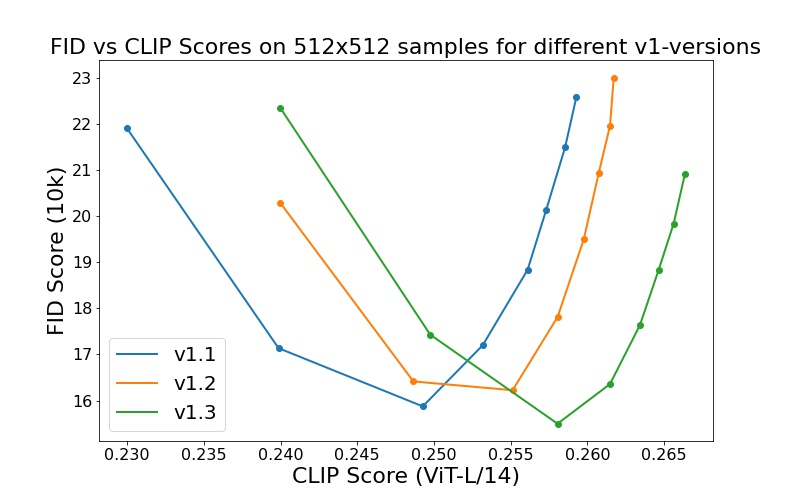
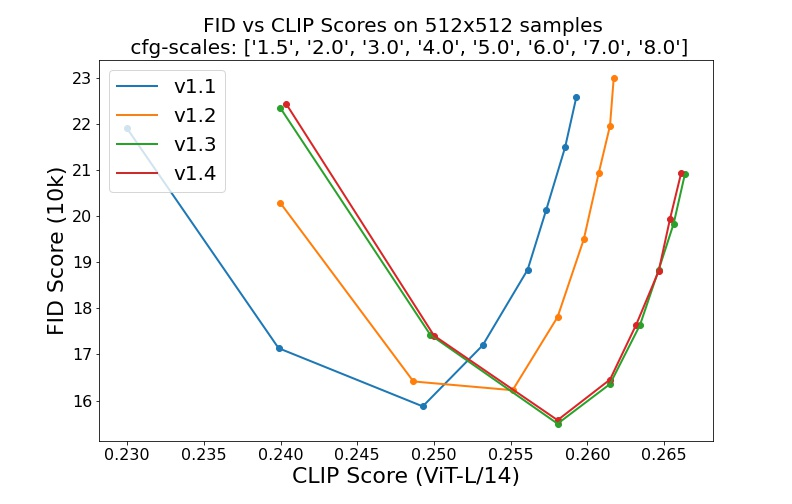
Release under CreativeML Open RAIL M License
Update license, readme, models, model card, requirements and sampling
script.

diff --git a/scripts/txt2img.py b/scripts/txt2img.py
@@ -1,9 +1,11 @@
 import argparse, os, sys, glob
+import cv2
 import torch
 import numpy as np
 from omegaconf import OmegaConf
 from PIL import Image
 from tqdm import tqdm, trange
+from imwatermark import WatermarkEncoder
 from itertools import islice
 from einops import rearrange
 from torchvision.utils import make_grid
@@ -19,10 +21,12 @@ from ldm.models.diffusion.plms import PLMSSampler
 from diffusers.pipelines.stable_diffusion.safety_checker import StableDiffusionSafetyChecker
 from transformers import AutoFeatureExtractor
 
+
 # load safety model
 safety_model_id = "CompVis/stable-diffusion-safety-checker"
 safety_feature_extractor = AutoFeatureExtractor.from_pretrained(safety_model_id)
 safety_checker = StableDiffusionSafetyChecker.from_pretrained(safety_model_id)
+
 
 def chunk(it, size):
     it = iter(it)
@@ -59,6 +63,35 @@ def load_model_from_config(config, ckpt, verbose=False):
     model.cuda()
     model.eval()
     return model
+
+
+def put_watermark(img, wm_encoder=None):
+    if wm_encoder is not None:
+        img = cv2.cvtColor(np.array(img), cv2.COLOR_RGB2BGR)
+        img = wm_encoder.encode(img, 'dwtDct')
+        img = Image.fromarray(img[:, :, ::-1])
+    return img
+
+
+def load_replacement(x):
+    try:
+        hwc = x.shape
+        y = Image.open("assets/rick.jpeg").convert("RGB").resize((hwc[1], hwc[0]))
+        y = (np.array(y)/255.0).astype(x.dtype)
+        assert y.shape == x.shape
+        return y
+    except Exception:
+        return x
+
+
+def check_safety(x_image):
+    safety_checker_input = safety_feature_extractor(numpy_to_pil(x_image), return_tensors="pt")
+    x_checked_image, has_nsfw_concept = safety_checker(images=x_image, clip_input=safety_checker_input.pixel_values)
+    assert x_checked_image.shape[0] == len(has_nsfw_concept)
+    for i in range(len(has_nsfw_concept)):
+        if has_nsfw_concept[i]:
+            x_checked_image[i] = load_replacement(x_checked_image[i])
+    return x_checked_image, has_nsfw_concept
 
 
 def main():
@@ -217,6 +250,11 @@ def main():
     os.makedirs(opt.outdir, exist_ok=True)
     outpath = opt.outdir
 
+    print("Creating invisible watermark encoder (see https://github.com/ShieldMnt/invisible-watermark)...")
+    wm = "StableDiffusionV1"
+    wm_encoder = WatermarkEncoder()
+    wm_encoder.set_watermark('bytes', wm.encode('utf-8'))
+
     batch_size = opt.n_samples
     n_rows = opt.n_rows if opt.n_rows > 0 else batch_size
     if not opt.from_file:
@@ -268,17 +306,16 @@ def main():
                         x_samples_ddim = torch.clamp((x_samples_ddim + 1.0) / 2.0, min=0.0, max=1.0)
                         x_samples_ddim = x_samples_ddim.cpu().permute(0, 2, 3, 1).numpy()
 
-                        x_image = x_samples_ddim
-                        safety_checker_input = safety_feature_extractor(numpy_to_pil(x_image), return_tensors="pt")
-                        x_checked_image, has_nsfw_concept = safety_checker(images=x_image, clip_input=safety_checker_input.pixel_values)
+                        x_checked_image, has_nsfw_concept = check_safety(x_samples_ddim)
 
                         x_checked_image_torch = torch.from_numpy(x_checked_image).permute(0, 3, 1, 2)
 
                         if not opt.skip_save:
                             for x_sample in x_checked_image_torch:
                                 x_sample = 255. * rearrange(x_sample.cpu().numpy(), 'c h w -> h w c')
-                                Image.fromarray(x_sample.astype(np.uint8)).save(
-                                    os.path.join(sample_path, f"{base_count:05}.png"))
+                                img = Image.fromarray(x_sample.astype(np.uint8))
+                                img = put_watermark(img, wm_encoder)
+                                img.save(os.path.join(sample_path, f"{base_count:05}.png"))
                                 base_count += 1
 
                         if not opt.skip_grid:
@@ -292,7 +329,9 @@ def main():
 
                     # to image
                     grid = 255. * rearrange(grid, 'c h w -> h w c').cpu().numpy()
-                    Image.fromarray(grid.astype(np.uint8)).save(os.path.join(outpath, f'grid-{grid_count:04}.png'))
+                    img = Image.fromarray(grid.astype(np.uint8))
+                    img = put_watermark(img, wm_encoder)
+                    img.save(os.path.join(outpath, f'grid-{grid_count:04}.png'))
                     grid_count += 1
 
                 toc = time.time()

diff --git a/scripts/tests/test_watermark.py b/scripts/tests/test_watermark.py
@@ -1,0 +1,18 @@
+import cv2
+import fire
+from imwatermark import WatermarkDecoder
+
+
+def testit(img_path):
+    bgr = cv2.imread(img_path)
+    decoder = WatermarkDecoder('bytes', 136)
+    watermark = decoder.decode(bgr, 'dwtDct')
+    try:
+        dec = watermark.decode('utf-8')
+    except:
+        dec = "null"
+    print(dec)
+
+
+if __name__ == "__main__":
+    fire.Fire(testit)

diff --git a/README.md b/README.md
@@ -7,10 +7,8 @@
 [Dominik Lorenz](https://github.com/qp-qp)\,
 [Patrick Esser](https://github.com/pesser),
 [Björn Ommer](https://hci.iwr.uni-heidelberg.de/Staff/bommer)<br/>
-
-**CVPR '22 Oral**
-
-which is available on [GitHub](https://github.com/CompVis/latent-diffusion). PDF at [arXiv](https://arxiv.org/abs/2112.10752). Please also visit our [Project page](https://ommer-lab.com/research/latent-diffusion-models/).
+_[CVPR '22 Oral](https://openaccess.thecvf.com/content/CVPR2022/html/Rombach_High-Resolution_Image_Synthesis_With_Latent_Diffusion_Models_CVPR_2022_paper.html) |
+[GitHub](https://github.com/CompVis/latent-diffusion) | [arXiv](https://arxiv.org/abs/2112.10752) | [Project page](https://ommer-lab.com/research/latent-diffusion-models/)_
 
 ![txt2img-stable2](assets/stable-samples/txt2img/merged-0006.png)
 [Stable Diffusion](#stable-diffusion-v1) is a latent text-to-image diffusion
@@ -35,7 +33,7 @@ You can also update an existing [latent diffusion](https://github.com/CompVis/la
 
 ```
 conda install pytorch torchvision -c pytorch
-pip install transformers==4.19.2
+pip install transformers==4.19.2 diffusers invisible-watermark
 pip install -e .
 ``` 
 
@@ -49,23 +47,23 @@ then finetuned on 512x512 images.
 
 *Note: Stable Diffusion v1 is a general text-to-image diffusion model and therefore mirrors biases and (mis-)conceptions that are present
 in its training data. 
-Details on the training procedure and data, as well as the intended use of the model can be found in the corresponding [model card](https://huggingface.co/CompVis/stable-diffusion).
-Research into the safe deployment of general text-to-image models is an ongoing effort. To prevent misuse and harm, we currently provide access to the checkpoints only for [academic research purposes upon request](https://stability.ai/academia-access-form).
-**This is an experiment in safe and community-driven publication of a capable and general text-to-image model. We are working on a public release with a more permissive license that also incorporates ethical considerations.***
+Details on the training procedure and data, as well as the intended use of the model can be found in the corresponding [model card](Stable_Diffusion_v1_Model_Card.md).*
 
-[Request access to Stable Diffusion v1 checkpoints for academic research](https://stability.ai/academia-access-form) 
+The weights are available via [the CompVis organization at Hugging Face](https://huggingface.co/CompVis) under [a license which contains specific use-based restrictions to prevent misuse and harm as informed by the model card, but otherwise remains permissive](LICENSE). While commercial use is permitted under the terms of the license, **we do not recommend using the provided weights for services or products without additional safety mechanisms and considerations**, since there are [known limitations and biases](Stable_Diffusion_v1_Model_Card.md#limitations-and-bias) of the weights, and research on safe and ethical deployment of general text-to-image models is an ongoing effort. **The weights are research artifacts and should be treated as such.**
+
+[The CreativeML OpenRAIL M license](LICENSE) is an [Open RAIL M license](https://www.licenses.ai/blog/2022/8/18/naming-convention-of-responsible-ai-licenses), adapted from the work that [BigScience](https://bigscience.huggingface.co/) and [the RAIL Initiative](https://www.licenses.ai/) are jointly carrying in the area of responsible AI licensing. See also [the article about the BLOOM Open RAIL license](https://bigscience.huggingface.co/blog/the-bigscience-rail-license) on which our license is based.
 
 ### Weights
 
-We currently provide three checkpoints, `sd-v1-1.ckpt`, `sd-v1-2.ckpt` and `sd-v1-3.ckpt`,
-which were trained as follows,
+We currently provide the following checkpoints:
 
 - `sd-v1-1.ckpt`: 237k steps at resolution `256x256` on [laion2B-en](https://huggingface.co/datasets/laion/laion2B-en).
   194k steps at resolution `512x512` on [laion-high-resolution](https://huggingface.co/datasets/laion/laion-high-resolution) (170M examples from LAION-5B with resolution `>= 1024x1024`).
 - `sd-v1-2.ckpt`: Resumed from `sd-v1-1.ckpt`.
-  515k steps at resolution `512x512` on "laion-improved-aesthetics" (a subset of laion2B-en,
-filtered to images with an original size `>= 512x512`, estimated aesthetics score `> 5.0`, and an estimated watermark probability `< 0.5`. The watermark estimate is from the LAION-5B metadata, the aesthetics score is estimated using an [improved aesthetics estimator](https://github.com/christophschuhmann/improved-aesthetic-predictor)).
-- `sd-v1-3.ckpt`: Resumed from `sd-v1-2.ckpt`. 195k steps at resolution `512x512` on "laion-improved-aesthetics" and 10\% dropping of the text-conditioning to improve [classifier-free guidance sampling](https://arxiv.org/abs/2207.12598).
+  515k steps at resolution `512x512` on [laion-aesthetics v2 5+](https://laion.ai/blog/laion-aesthetics/) (a subset of laion2B-en with estimated aesthetics score `> 5.0`, and additionally
+filtered to images with an original size `>= 512x512`, and an estimated watermark probability `< 0.5`. The watermark estimate is from the [LAION-5B](https://laion.ai/blog/laion-5b/) metadata, the aesthetics score is estimated using the [LAION-Aesthetics Predictor V2](https://github.com/christophschuhmann/improved-aesthetic-predictor)).
+- `sd-v1-3.ckpt`: Resumed from `sd-v1-2.ckpt`. 195k steps at resolution `512x512` on "laion-aesthetics v2 5+" and 10\% dropping of the text-conditioning to improve [classifier-free guidance sampling](https://arxiv.org/abs/2207.12598).
+- `sd-v1-4.ckpt`: Resumed from `sd-v1-2.ckpt`. 225k steps at resolution `512x512` on "laion-aesthetics v2 5+" and 10\% dropping of the text-conditioning to improve [classifier-free guidance sampling](https://arxiv.org/abs/2207.12598).
 
 Evaluations with different classifier-free guidance scales (1.5, 2.0, 3.0, 4.0,
 5.0, 6.0, 7.0, 8.0) and 50 PLMS sampling
@@ -79,11 +77,20 @@ steps show the relative improvements of the checkpoints:
 ![txt2img-stable2](assets/stable-samples/txt2img/merged-0007.png)
 
 Stable Diffusion is a latent diffusion model conditioned on the (non-pooled) text embeddings of a CLIP ViT-L/14 text encoder.
+We provide a [reference script for sampling](#reference-sampling-script), but
+there also exists a [diffusers integration](#diffusers-integration), which we
+expect to see more active community development.
 
+#### Reference Sampling Script
 
-#### Sampling Script
+We provide a reference sampling script, which incorporates
 
-After [obtaining the weights](#weights), link them
+- a [Safety Checker Module](https://github.com/CompVis/stable-diffusion/pull/36),
+  to reduce the probability of explicit outputs,
+- an [invisible watermarking](https://github.com/ShieldMnt/invisible-watermark)
+  of the outputs, to help viewers [identify the images as machine-generated](scripts/tests/test_watermark.py).
+
+After [obtaining the `stable-diffusion-v1-*-original` weights](#weights), link them
 ```
 mkdir -p models/ldm/stable-diffusion-v1/
 ln -s <path/to/model.ckpt> models/ldm/stable-diffusion-v1/model.ckpt 
@@ -96,9 +103,11 @@ python scripts/txt2img.py --prompt "a photograph of an astronaut riding a horse"
 By default, this uses a guidance scale of `--scale 7.5`, [Katherine Crowson's implementation](https://github.com/CompVis/latent-diffusion/pull/51) of the [PLMS](https://arxiv.org/abs/2202.09778) sampler, 
 and renders images of size 512x512 (which it was trained on) in 50 steps. All supported arguments are listed below (type `python scripts/txt2img.py --help`).
 
+
 ```commandline
-usage: txt2img.py [-h] [--prompt [PROMPT]] [--outdir [OUTDIR]] [--skip_grid] [--skip_save] [--ddim_steps DDIM_STEPS] [--plms] [--laion400m] [--fixed_code] [--ddim_eta DDIM_ETA] [--n_iter N_ITER] [--H H] [--W W] [--C C] [--f F] [--n_samples N_SAMPLES] [--n_rows N_ROWS]
-                  [--scale SCALE] [--from-file FROM_FILE] [--config CONFIG] [--ckpt CKPT] [--seed SEED] [--precision {full,autocast}]
+usage: txt2img.py [-h] [--prompt [PROMPT]] [--outdir [OUTDIR]] [--skip_grid] [--skip_save] [--ddim_steps DDIM_STEPS] [--plms] [--laion400m] [--fixed_code] [--ddim_eta DDIM_ETA]
+                  [--n_iter N_ITER] [--H H] [--W W] [--C C] [--f F] [--n_samples N_SAMPLES] [--n_rows N_ROWS] [--scale SCALE] [--from-file FROM_FILE] [--config CONFIG] [--ckpt CKPT]
+                  [--seed SEED] [--precision {full,autocast}]
 
 optional arguments:
   -h, --help            show this help message and exit
@@ -128,7 +137,6 @@ optional arguments:
   --seed SEED           the seed (for reproducible sampling)
   --precision {full,autocast}
                         evaluate at this precision
-
 ```
 Note: The inference config for all v1 versions is designed to be used with EMA-only checkpoints. 
 For this reason `use_ema=False` is set in the configuration, otherwise the code will try to switch from
@@ -138,16 +146,16 @@ which contain both types of weights. For these, `use_ema=False` will load and us
 
 #### Diffusers Integration
 
-Another way to download and sample Stable Diffusion is by using the [diffusers library](https://github.com/huggingface/diffusers/tree/main#new--stable-diffusion-is-now-fully-compatible-with-diffusers)
+A simple way to download and sample Stable Diffusion is by using the [diffusers library](https://github.com/huggingface/diffusers/tree/main#new--stable-diffusion-is-now-fully-compatible-with-diffusers):
 ```py
 # make sure you're logged in with `huggingface-cli login`
 from torch import autocast
-from diffusers import StableDiffusionPipeline, LMSDiscreteScheduler
+from diffusers import StableDiffusionPipeline
 
 pipe = StableDiffusionPipeline.from_pretrained(
-	"CompVis/stable-diffusion-v1-3-diffusers", 
+	"CompVis/stable-diffusion-v1-4", 
 	use_auth_token=True
-)
+).to("cuda")
 
 prompt = "a photo of an astronaut riding a horse on mars"
 with autocast("cuda"):
@@ -155,7 +163,6 @@ with autocast("cuda"):
     
 image.save("astronaut_rides_horse.png")
 ```
-
 
 
 ### Image Modification with Stable Diffusion
@@ -203,7 +210,6 @@ Thanks for open-sourcing!
       archivePrefix={arXiv},
       primaryClass={cs.CV}
 }
-
 ```
 
 

diff --git a/Stable_Diffusion_v1_Model_Card.md b/Stable_Diffusion_v1_Model_Card.md
@@ -36,10 +36,11 @@ Excluded uses are described below.
  ### Misuse, Malicious Use, and Out-of-Scope Use
 _Note: This section is taken from the [DALLE-MINI model card](https://huggingface.co/dalle-mini/dalle-mini), but applies in the same way to Stable Diffusion v1_.
 
-
 The model should not be used to intentionally create or disseminate images that create hostile or alienating environments for people. This includes generating images that people would foreseeably find disturbing, distressing, or offensive; or content that propagates historical or current stereotypes.
+
 #### Out-of-Scope Use
 The model was not trained to be factual or true representations of people or events, and therefore using the model to generate such content is out-of-scope for the abilities of this model.
+
 #### Misuse and Malicious Use
 Using the model to generate content that is cruel to individuals is a misuse of this model. This includes, but is not limited to:
 
@@ -66,14 +67,17 @@ Using the model to generate content that is cruel to individuals is a misuse of 
   [LAION-5B](https://laion.ai/blog/laion-5b/) which contains adult material
   and is not fit for product use without additional safety mechanisms and
   considerations.
+- No additional measures were used to deduplicate the dataset. As a result, we observe some degree of memorization for images that are duplicated in the training data.
+  The training data can be searched at [https://rom1504.github.io/clip-retrieval/](https://rom1504.github.io/clip-retrieval/) to possibly assist in the detection of memorized images.
 
 ### Bias
 While the capabilities of image generation models are impressive, they can also reinforce or exacerbate social biases. 
-Stable Diffusion v1 was trained on subsets of [LAION-2B(en)](https://laion.ai/blog/laion-5b/), 
-which consists of images that are primarily limited to English descriptions. 
+Stable Diffusion v1 was primarily trained on subsets of [LAION-2B(en)](https://laion.ai/blog/laion-5b/), 
+which consists of images that are limited to English descriptions. 
 Texts and images from communities and cultures that use other languages are likely to be insufficiently accounted for. 
 This affects the overall output of the model, as white and western cultures are often set as the default. Further, the 
 ability of the model to generate content with non-English prompts is significantly worse than with English-language prompts.
+Stable Diffusion v1 mirrors and exacerbates biases to such a degree that viewer discretion must be advised irrespective of the input or its intent.
 
 
 ## Training
@@ -81,7 +85,7 @@ ability of the model to generate content with non-English prompts is significant
 **Training Data**
 The model developers used the following dataset for training the model:
 
-- LAION-2B (en) and subsets thereof (see next section)
+- LAION-5B and subsets thereof (see next section)
 
 **Training Procedure**
 Stable Diffusion v1 is a latent diffusion model which combines an autoencoder with a diffusion model that is trained in the latent space of the autoencoder. During training, 
@@ -91,16 +95,15 @@ Stable Diffusion v1 is a latent diffusion model which combines an autoencoder wi
 - The non-pooled output of the text encoder is fed into the UNet backbone of the latent diffusion model via cross-attention.
 - The loss is a reconstruction objective between the noise that was added to the latent and the prediction made by the UNet.
 
-We currently provide three checkpoints, `sd-v1-1.ckpt`, `sd-v1-2.ckpt` and `sd-v1-3.ckpt`,
-which were trained as follows,
+We currently provide the following checkpoints:
 
 - `sd-v1-1.ckpt`: 237k steps at resolution `256x256` on [laion2B-en](https://huggingface.co/datasets/laion/laion2B-en).
   194k steps at resolution `512x512` on [laion-high-resolution](https://huggingface.co/datasets/laion/laion-high-resolution) (170M examples from LAION-5B with resolution `>= 1024x1024`).
 - `sd-v1-2.ckpt`: Resumed from `sd-v1-1.ckpt`.
-  515k steps at resolution `512x512` on "laion-improved-aesthetics" (a subset of laion2B-en,
-filtered to images with an original size `>= 512x512`, estimated aesthetics score `> 5.0`, and an estimated watermark probability `< 0.5`. The watermark estimate is from the LAION-5B metadata, the aesthetics score is estimated using an [improved aesthetics estimator](https://github.com/christophschuhmann/improved-aesthetic-predictor)).
-- `sd-v1-3.ckpt`: Resumed from `sd-v1-2.ckpt`. 195k steps at resolution `512x512` on "laion-improved-aesthetics" and 10\% dropping of the text-conditioning to improve [classifier-free guidance sampling](https://arxiv.org/abs/2207.12598).
-
+  515k steps at resolution `512x512` on [laion-aesthetics v2 5+](https://laion.ai/blog/laion-aesthetics/) (a subset of laion2B-en with estimated aesthetics score `> 5.0`, and additionally
+filtered to images with an original size `>= 512x512`, and an estimated watermark probability `< 0.5`. The watermark estimate is from the [LAION-5B](https://laion.ai/blog/laion-5b/) metadata, the aesthetics score is estimated using the [LAION-Aesthetics Predictor V2](https://github.com/christophschuhmann/improved-aesthetic-predictor)).
+- `sd-v1-3.ckpt`: Resumed from `sd-v1-2.ckpt`. 195k steps at resolution `512x512` on "laion-aesthetics v2 5+" and 10\% dropping of the text-conditioning to improve [classifier-free guidance sampling](https://arxiv.org/abs/2207.12598).
+- `sd-v1-4.ckpt`: Resumed from `sd-v1-2.ckpt`. 225k steps at resolution `512x512` on "laion-aesthetics v2 5+" and 10\% dropping of the text-conditioning to improve [classifier-free guidance sampling](https://arxiv.org/abs/2207.12598).
 
 - **Hardware:** 32 x 8 x A100 GPUs
 - **Optimizer:** AdamW
@@ -116,6 +119,7 @@ steps show the relative improvements of the checkpoints:
 ![pareto](assets/v1-variants-scores.jpg) 
 
 Evaluated using 50 PLMS steps and 10000 random prompts from the COCO2017 validation set, evaluated at 512x512 resolution.  Not optimized for FID scores.
+
 ## Environmental Impact
 
 **Stable Diffusion v1** **Estimated Emissions**
@@ -126,6 +130,7 @@ Based on that information, we estimate the following CO2 emissions using the [Ma
 - **Cloud Provider:** AWS
 - **Compute Region:** US-east
 - **Carbon Emitted (Power consumption x Time x Carbon produced based on location of power grid):** 11250 kg CO2 eq.
+
 ## Citation
     @InProceedings{Rombach_2022_CVPR,
         author    = {Rombach, Robin and Blattmann, Andreas and Lorenz, Dominik and Esser, Patrick and Ommer, Bj\"orn},
@@ -137,4 +142,3 @@ Based on that information, we estimate the following CO2 emissions using the [Ma
     }
 
 *This model card was written by: Robin Rombach and Patrick Esser and is based on the [DALL-E Mini model card](https://huggingface.co/dalle-mini/dalle-mini).*
-
